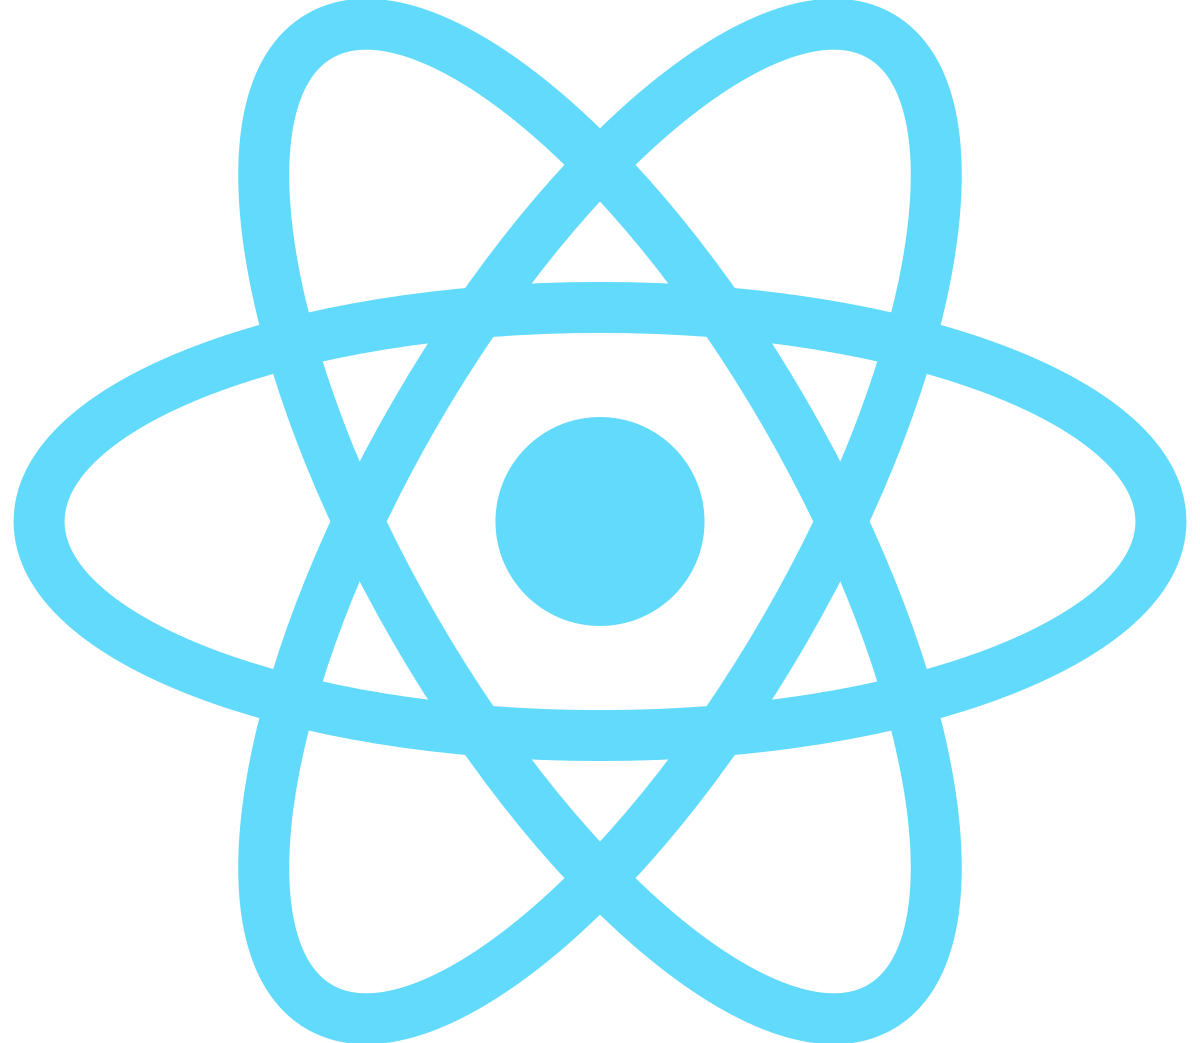
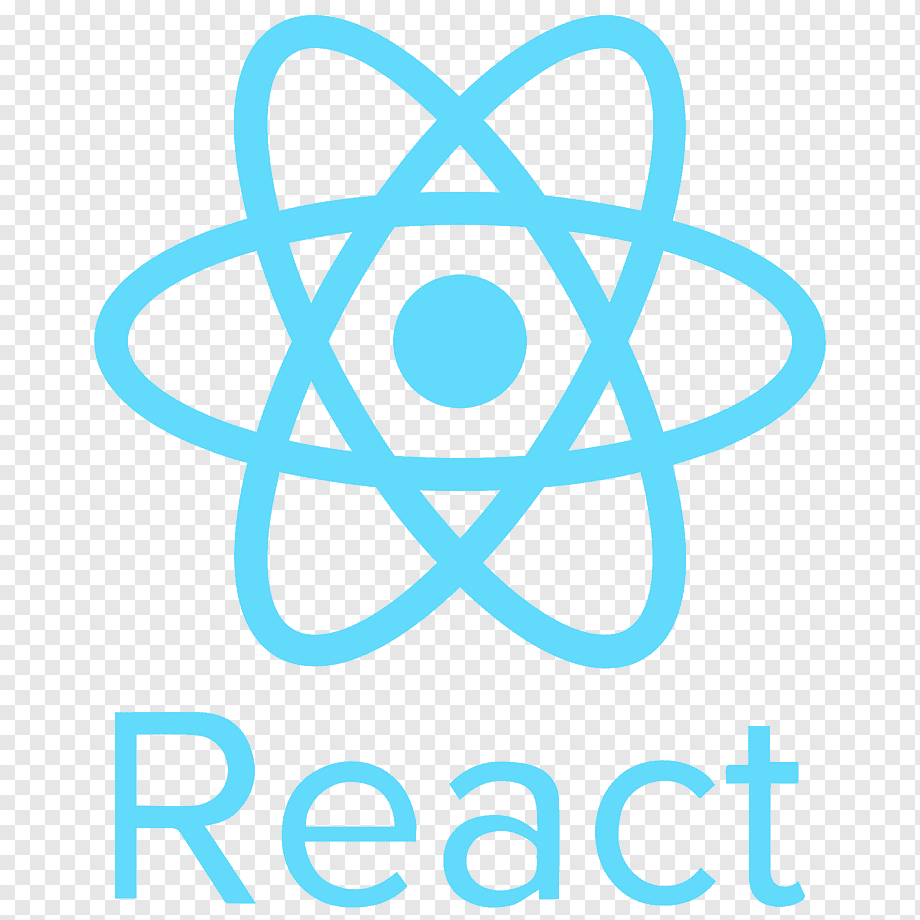
Updated Skills

diff --git a/index.html b/index.html
@@ -60,7 +60,7 @@
         <div class="skill">
             <img src="html_finalprojimages/py.png"/>
             <h6>Python</h6>
-            <p> 1 year experience </p>
+            <p> 2 year experience </p>
         </div>
 
         <div class="skill">
@@ -72,7 +72,7 @@
         <div class="skill">
             <img src="html_finalprojimages/git.png"/>
             <h6>Git</h6>
-            <p> 1 year experience </p>
+            <p> 2 year experience </p>
         </div>
         
         <div class="skill">
@@ -91,13 +91,39 @@
             <img src="html_finalprojimages/CSS3.png"/>
             <h6>CSS</h6>
             <p> <1 year experience </p>
-        </div>  
+        </div>
 
         <div class="skill">
           <img src="html_finalprojimages/js.jpeg"/>
           <h6>JavaScript</h6>
           <p> <1 year experience </p>
-        </div>  
+        </div>
+
+        <div class="skill">
+          <img src="html_finalprojimages/flask.png"/>
+          <h6>Flask</h6>
+          <p> <1 year experience </p>
+        </div>
+
+        <div class="skill">
+          <img src="html_finalprojimages/pytorch.png"/>
+          <h6>PyTorch</h6>
+          <p> <1 year experience </p>
+        </div>
+
+        <div class="skill">
+          <img src="html_finalprojimages/react.png"/>
+          <h6>React.js</h6>
+          <p> <1 year experience </p>
+        </div>
+
+        <div class="skill">
+          <img src="html_finalprojimages/docker.png"/>
+          <h6>Docker</h6>
+          <p> <1 year experience </p>
+        </div>
+
+
 
       </div>
     </section>
